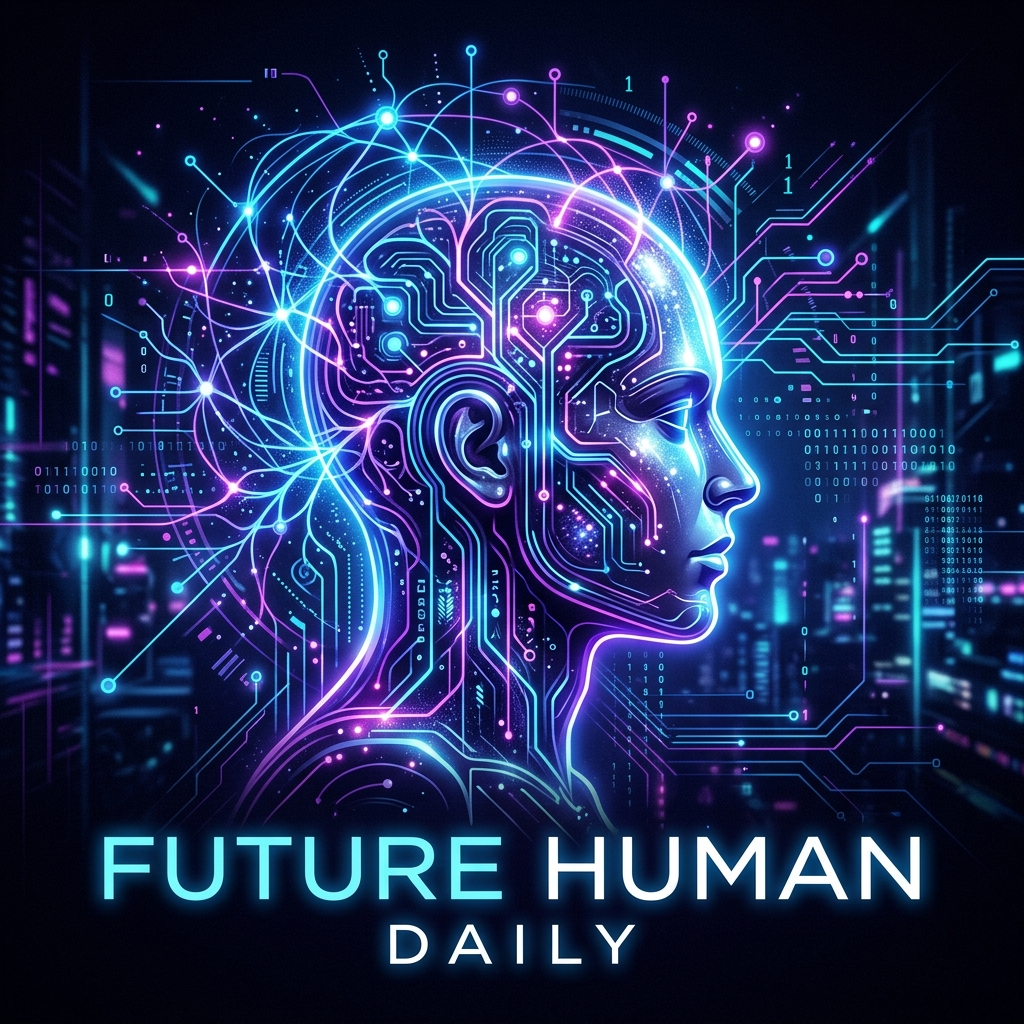
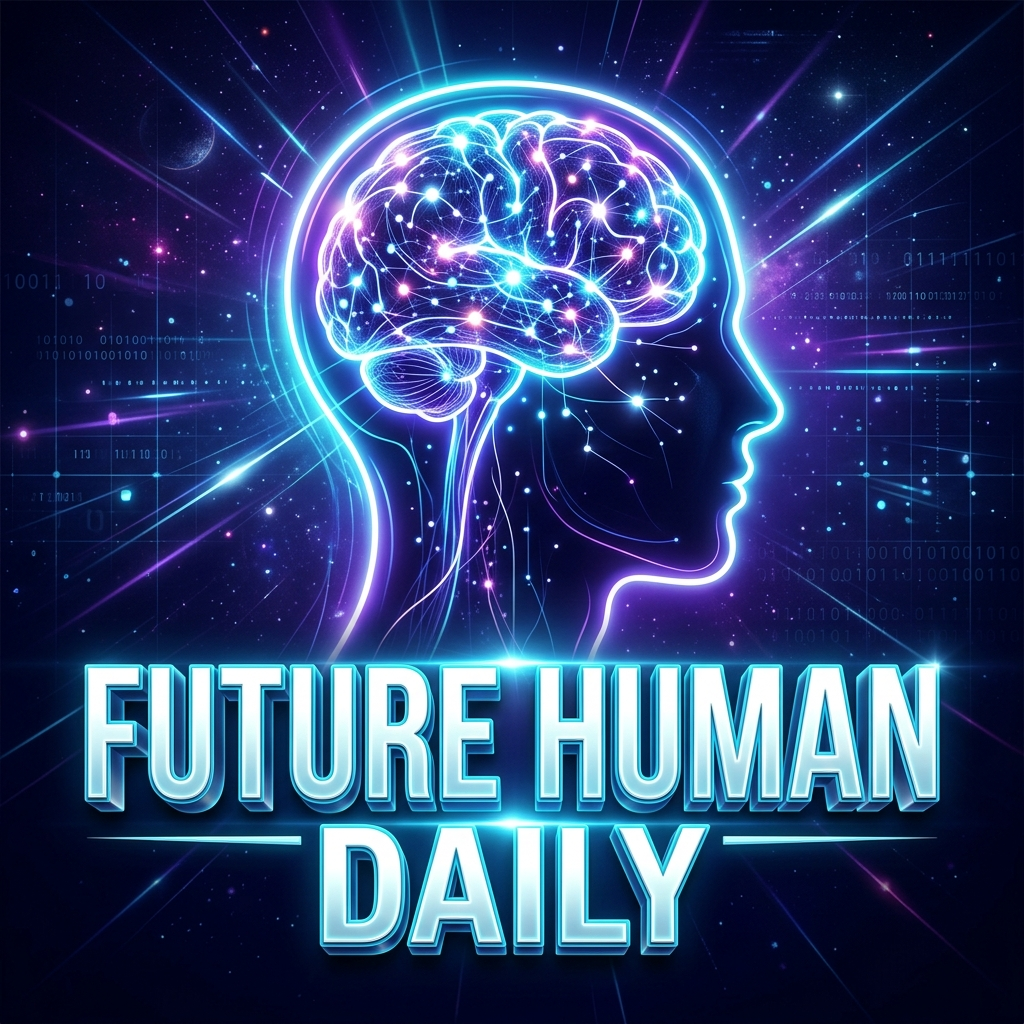
Update cover art to high-contrast mobile thumbnail

diff --git a/index.html b/index.html
@@ -11,7 +11,7 @@
     <link href="https://fonts.googleapis.com/css2?family=Outfit:wght@300;400;600;700;800&family=Space+Grotesk:wght@400;500;700&family=Inter:wght@300;400;500;600&display=swap" rel="stylesheet">
     <!-- FontAwesome for icons -->
     <link rel="stylesheet" href="https://cdnjs.cloudflare.com/ajax/libs/font-awesome/6.4.0/css/all.min.css">
-    <link rel="stylesheet" href="style.css">
+    <link rel="stylesheet" href="style.css?v=2">
 </head>
 <body>
     <div class="glow-bg"></div>
@@ -42,7 +42,7 @@
             <!-- Cover Art & Quick Specs -->
             <div class="cover-card glass-panel">
                 <div class="cover-image-container">
-                    <img src="assets/cover.jpg" alt="Future Human Daily Cover Art" id="main-cover-img">
+                    <img src="assets/cover.jpg?v=2" alt="Future Human Daily Cover Art" id="main-cover-img">
                     <div class="live-badge"><span class="pulse-dot"></span> DAILY NARRATION</div>
                 </div>
                 <div class="show-meta">
@@ -55,16 +55,16 @@
             <!-- Main Audio Player & Active Episode -->
             <div class="player-card glass-panel">
                 <div class="episode-header">
-                    <span class="ep-badge" id="ep-number">EPISODE 001</span>
-                    <span class="ep-date" id="ep-date">July 31, 2026</span>
+                    <span class="ep-badge" id="ep-number">EPISODE 002</span>
+                    <span class="ep-date" id="ep-date">September 27, 2026</span>
                 </div>
-                <h1 class="ep-title" id="ep-title">The Age of Synthetic Telepathy</h1>
-                <p class="ep-subtitle" id="ep-subtitle">How Brain-Computer Interfaces will bypass language and enable direct neural mind-to-mind communication.</p>
+                <h1 class="ep-title" id="ep-title">Targeted Dream Incubation & Neuro-Hacking</h1>
+                <p class="ep-subtitle" id="ep-subtitle">Can AI guide or record what happens inside your sleeping mind? MIT neuroscience vs biological reality checks.</p>
 
                 <!-- Native HTML5 Audio Player (Guaranteed Browser Sound) -->
                 <div class="native-audio-box" style="margin: 0.75rem 0;">
                     <audio id="html-audio-player" controls preload="auto" style="width: 100%; height: 42px; border-radius: 8px; filter: invert(0.88) hue-rotate(170deg);">
-                        <source src="audio/ep-001.mp3" type="audio/mpeg">
+                        <source src="audio/ep-002.mp3" type="audio/mpeg">
                         Your browser does not support the audio element.
                     </audio>
                 </div>
@@ -249,6 +249,6 @@
         <p>© 2026 <strong>Future Human Daily</strong>. Built with modern web audio & narration engine.</p>
     </footer>
 
-    <script src="app.js"></script>
+    <script src="app.js?v=2"></script>
 </body>
 </html>
